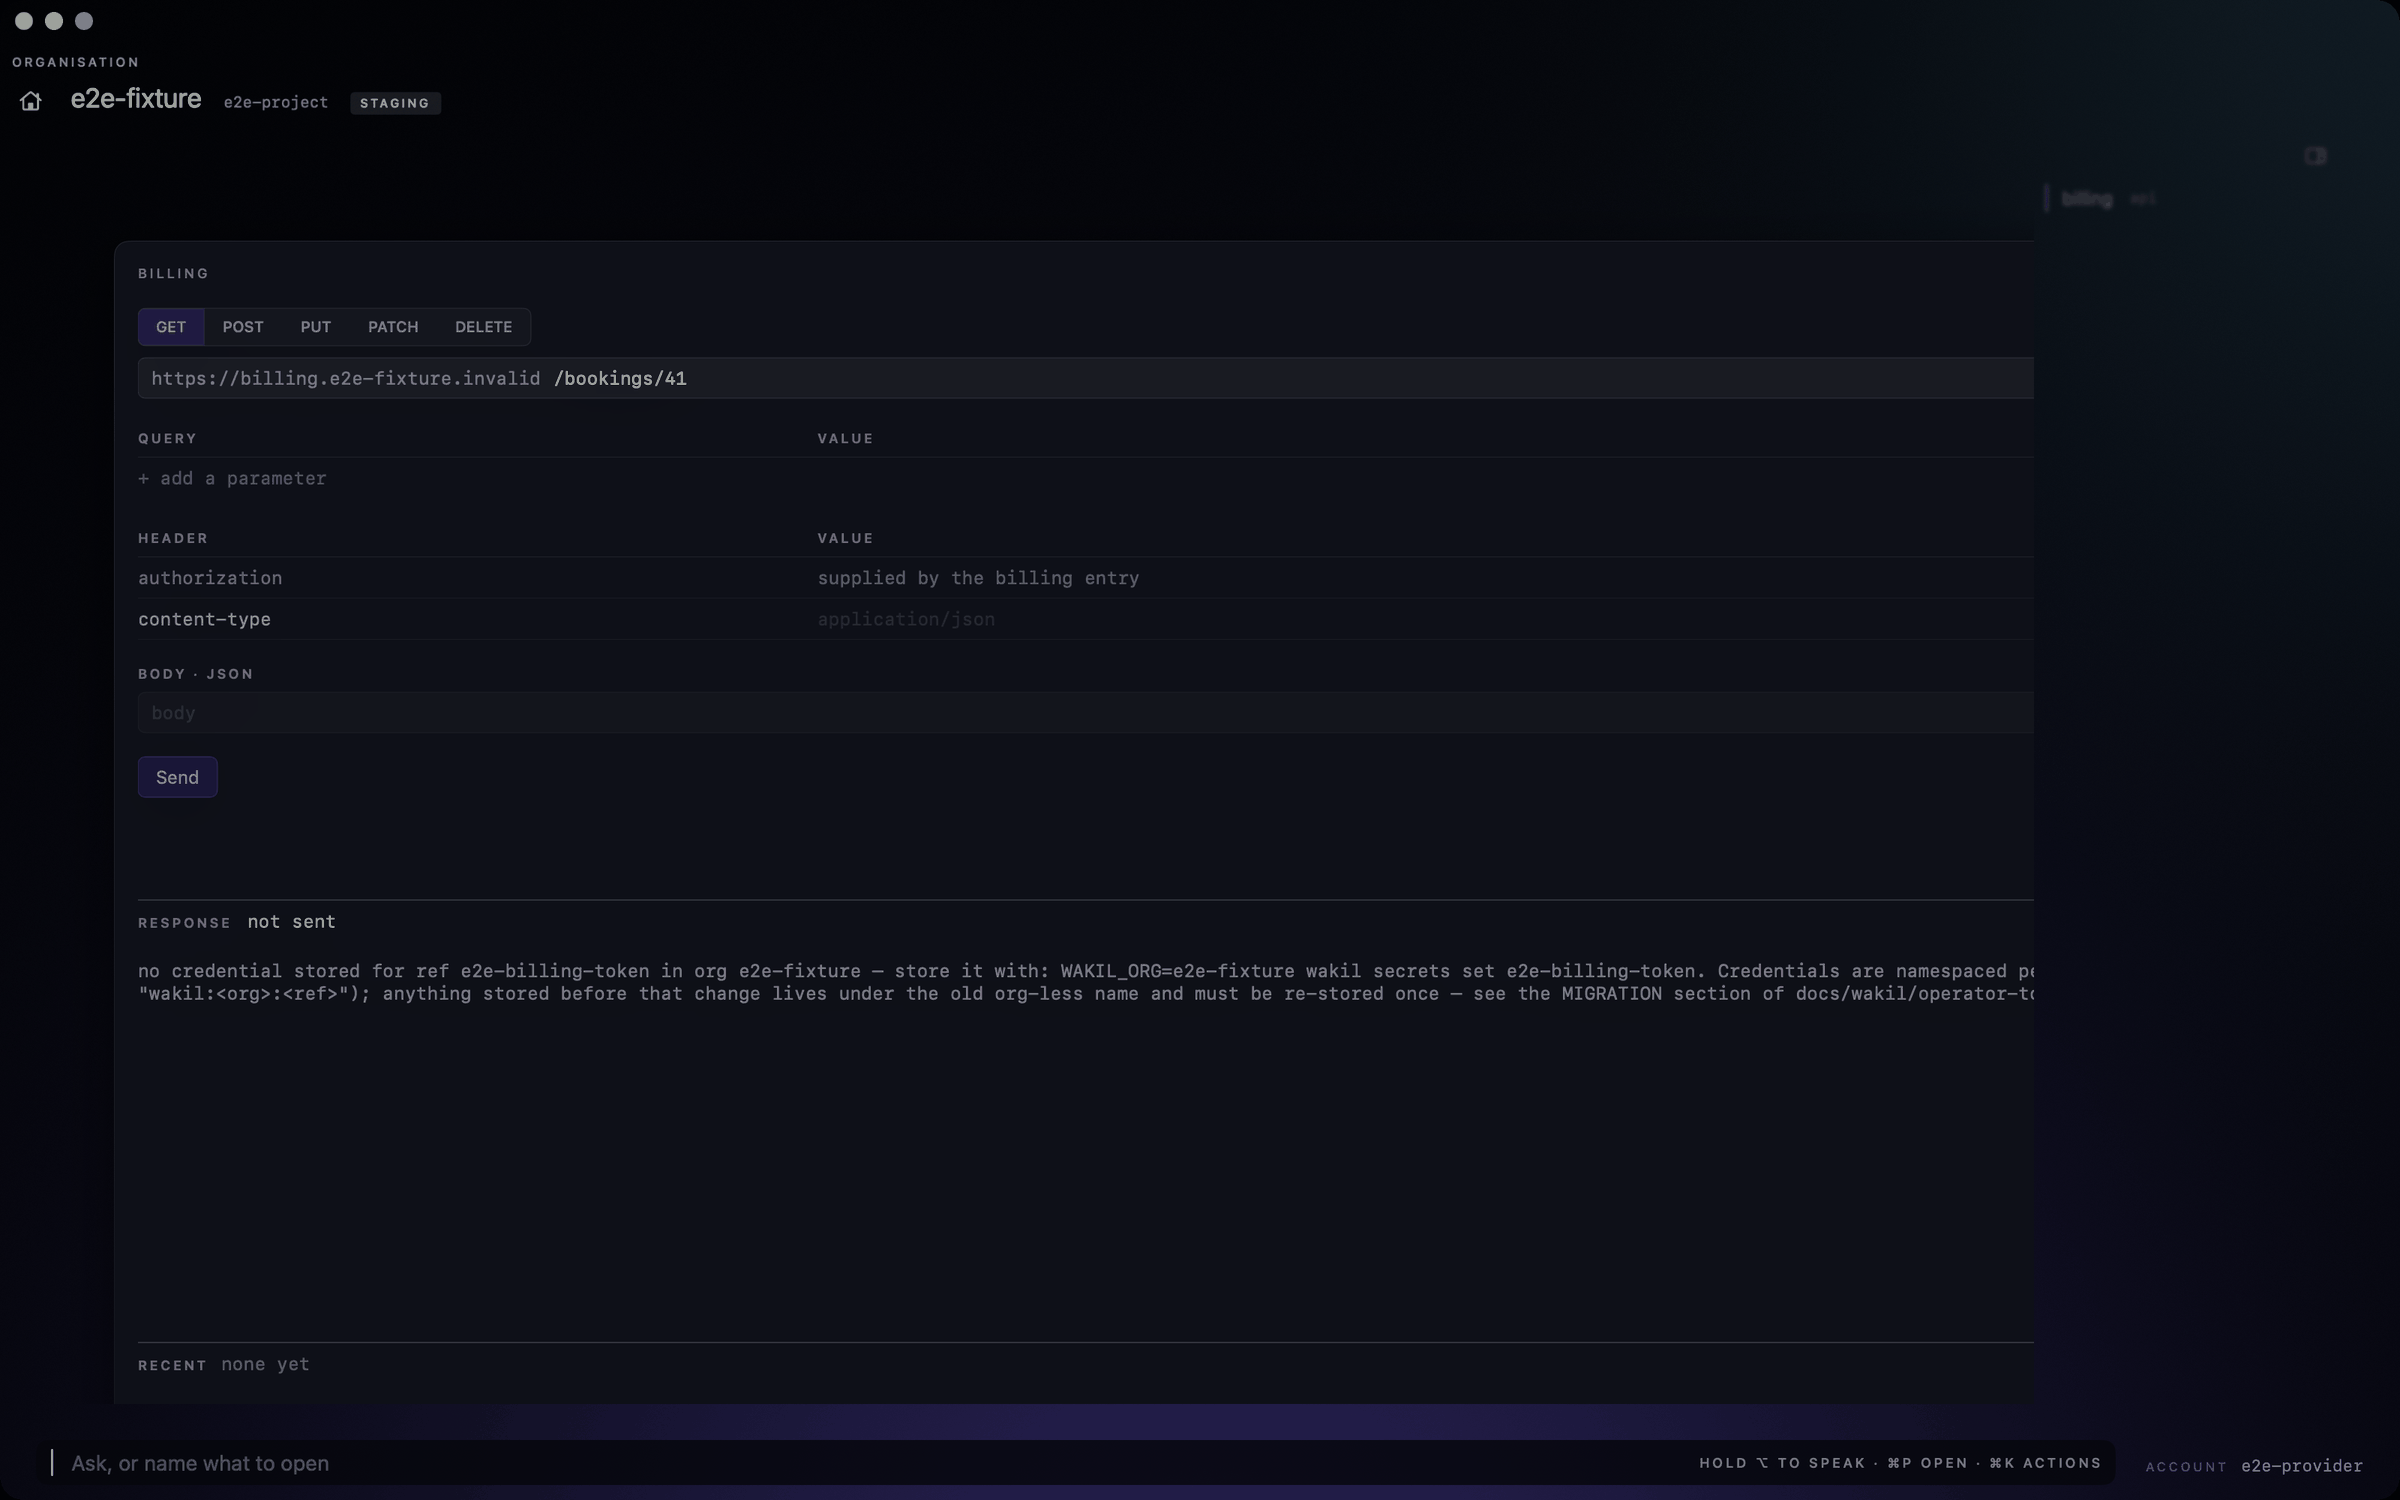
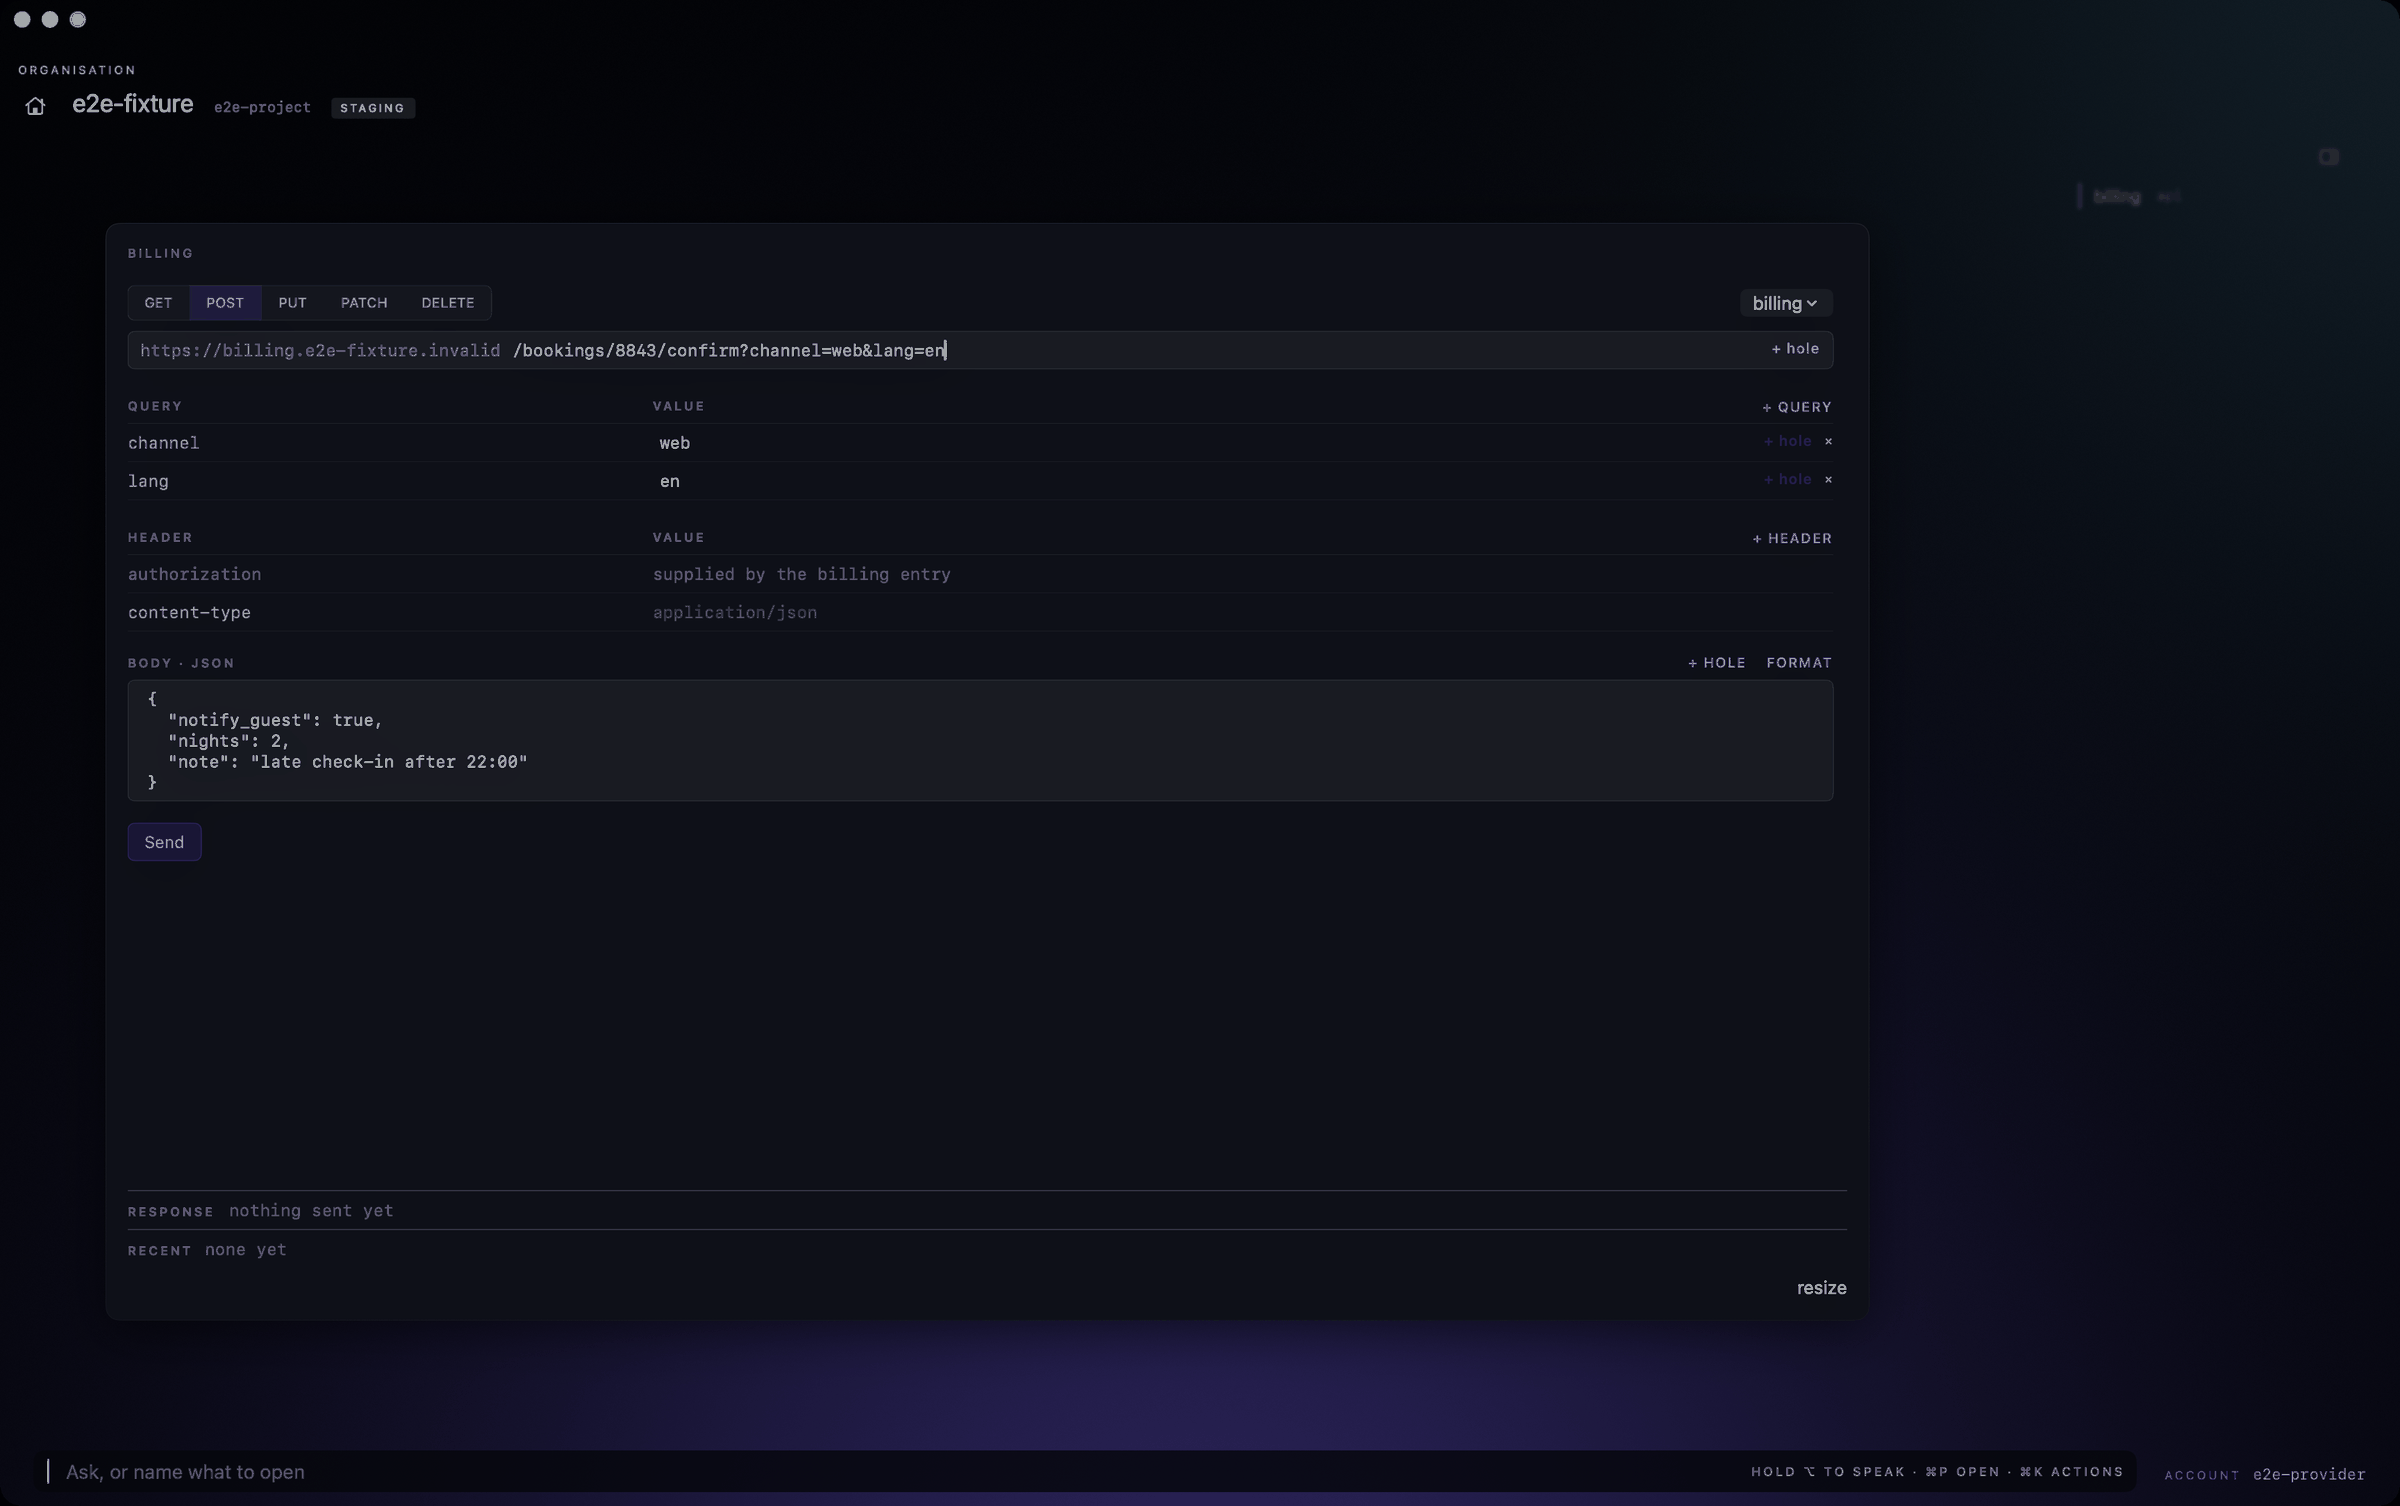
README: the API pane with a staged request, and Settings on the Running tab

diff --git a/README.md b/README.md
@@ -201,8 +201,8 @@ The auditor's playbook is in [`docs/agents/e2e.md`](docs/agents/e2e.md).
 | | |
 |---|---|
 | ![Browser with vertical tabs, grouped by site and by hand](docs/screenshots/browser-vertical-tabs.png) | ![The Ticket tab in the editor: the ticket, its pull request, open review threads drawn in the file, and Hand to agent](docs/screenshots/ticket-tab.png) |
-| ![Database pane: a read-only query and its result](docs/screenshots/database.png) | ![API client: the credential comes from the organization's Keychain entry, never the request](docs/screenshots/api.png) |
-| ![Settings: an organization's connections and git identity](docs/screenshots/settings-connections.png) | |
+| ![Database pane: a read-only query and its result](docs/screenshots/database.png) | ![API client: query rows synced with the path, a JSON body, and an authorization header the entry supplies from the Keychain](docs/screenshots/api.png) |
+| ![Settings: an organization's connections and git identity](docs/screenshots/settings-connections.png) | ![Settings, Running: how ▶ prepares, starts, checks and stops a repo in each workspace, on its own ports](docs/screenshots/settings-running.png) |
 
 ## How it's built
 
